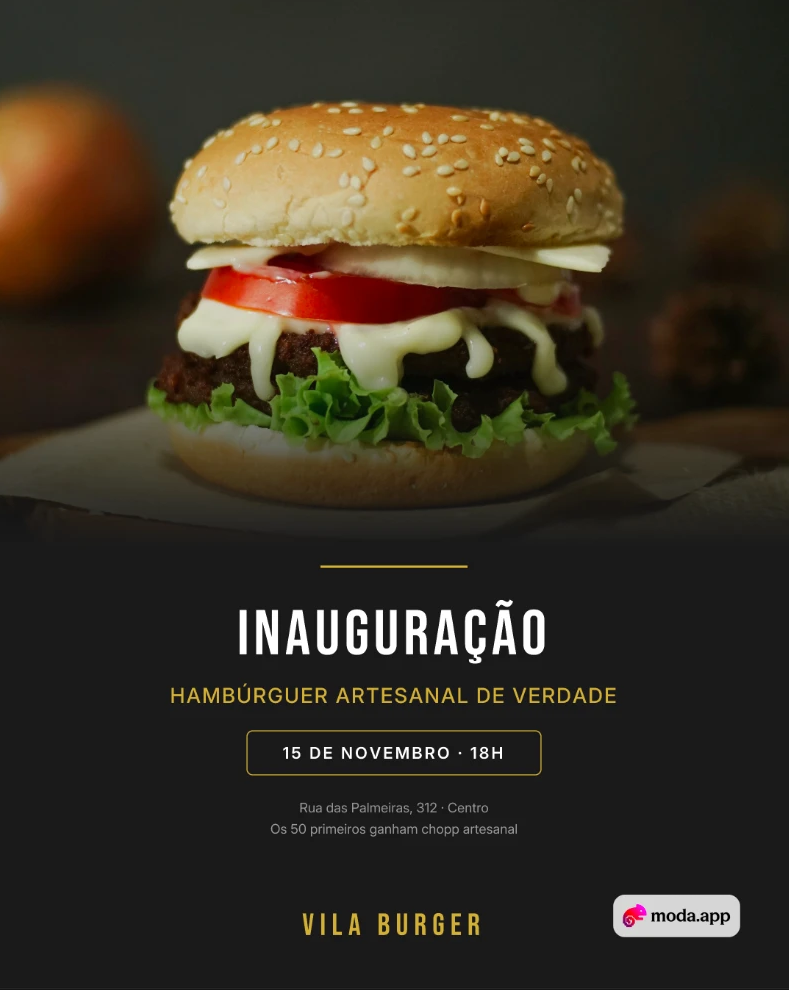
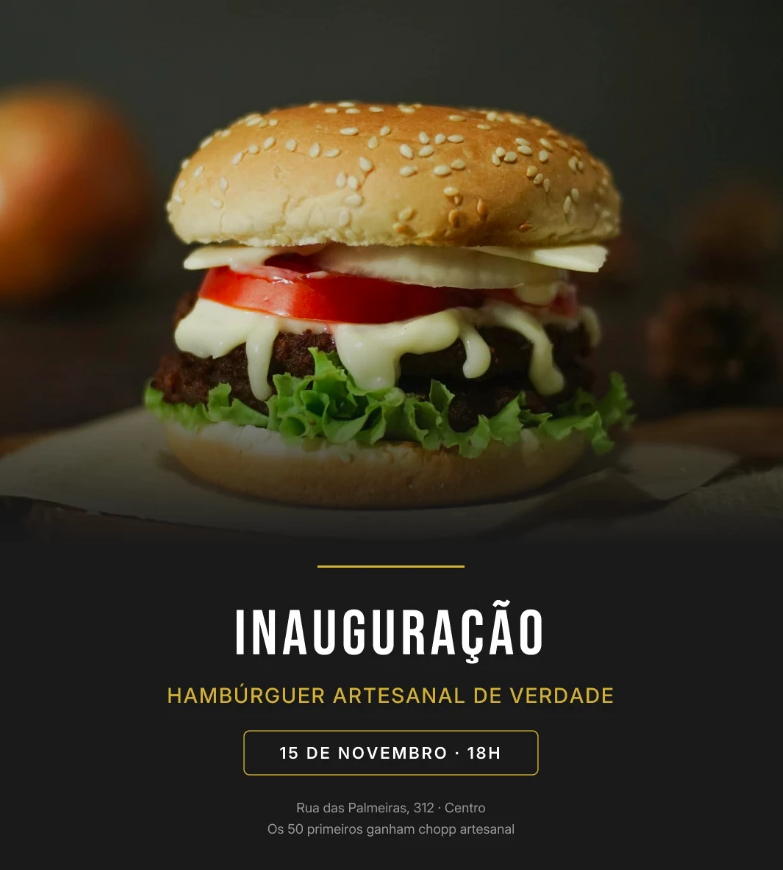
Referências: posts empilhados estilo Instagram, sem a marca da ferramenta
- Artes recortadas acima do selo "moda.app" (proporção 9:10)
- Os 3 posts aparecem sobrepostos como cards do Instagram, com
  lista numerada ligando cada um ao serviço; clique amplia
- Cache: style.css/script.js em ?v=5

diff --git a/portfolio.html b/portfolio.html
@@ -31,9 +31,9 @@
   <link rel="preload" href="assets/fonts/manrope.woff2" as="font" type="font/woff2" crossorigin>
   <link rel="preload" href="assets/fonts/inter.woff2" as="font" type="font/woff2" crossorigin>
   <!-- Ao mudar style.css ou script.js, aumente o número em ?v= em TODAS as páginas. -->
-  <link rel="stylesheet" href="style.css?v=4">
+  <link rel="stylesheet" href="style.css?v=5">
   <script>document.documentElement.classList.add('js');</script>
-  <script src="script.js?v=4" defer></script>
+  <script src="script.js?v=5" defer></script>
 </head><body data-page="portfolio">
   <!-- Os textos de serviços, preços, depoimentos, portfólio, sobre e contato são editados
        pelo painel (seu-site/admin). O conteúdo escrito aqui é só uma cópia de segurança:
@@ -55,6 +55,9 @@
     <symbol id="i-globe" viewBox="0 0 24 24"><g fill="none" stroke="currentColor" stroke-width="1.6"><circle cx="12" cy="12" r="9"/><path d="M3 12h18M12 3c2.5 2.6 3.8 5.6 3.8 9s-1.3 6.4-3.8 9c-2.5-2.6-3.8-5.6-3.8-9S9.5 5.6 12 3z"/></g></symbol>
     <symbol id="i-play" viewBox="0 0 24 24"><path fill="currentColor" d="M8 5.5v13l10.5-6.5z"/></symbol>
     <symbol id="i-zoom" viewBox="0 0 24 24"><g fill="none" stroke="currentColor" stroke-width="2" stroke-linecap="round"><circle cx="10.5" cy="10.5" r="6.5"/><path d="M15.5 15.5L20 20M10.5 8v5M8 10.5h5"/></g></symbol>
+    <symbol id="i-heart" viewBox="0 0 24 24"><path fill="none" stroke="currentColor" stroke-width="1.8" stroke-linejoin="round" d="M12 20s-7.5-4.6-7.5-10.2A4.3 4.3 0 0 1 12 7.2a4.3 4.3 0 0 1 7.5 2.6C19.5 15.4 12 20 12 20z"/></symbol>
+    <symbol id="i-comment" viewBox="0 0 24 24"><path fill="none" stroke="currentColor" stroke-width="1.8" stroke-linejoin="round" d="M20 11.5a8 8 0 0 1-11.7 7.1L4 20l1.3-4A8 8 0 1 1 20 11.5z"/></symbol>
+    <symbol id="i-send" viewBox="0 0 24 24"><path fill="none" stroke="currentColor" stroke-width="1.8" stroke-linejoin="round" d="M21 3L10 14M21 3l-6.5 18-3.5-7-7-3.5z"/></symbol>
     <symbol id="i-close" viewBox="0 0 24 24"><path fill="none" stroke="currentColor" stroke-width="2" stroke-linecap="round" d="M6 6l12 12M18 6L6 18"/></symbol>
   </svg>
 
@@ -118,37 +121,30 @@
             </figcaption>
           </figure>
         </div>
-        <div class="ref-grid">
-          <figure class="ref-piece" data-reveal style="--d:0ms">
-            <button class="ref-zoom" type="button" data-caption="Post de inauguração · Vila Burger (projeto conceitual)" aria-label="Ampliar imagem: Post de inauguração">
-              <picture><source type="image/webp" srcset="assets/referencias/vila-burger-inauguracao.webp"><img src="assets/referencias/vila-burger-inauguracao.png" alt="Post de inauguração da Vila Burger: foto de hambúrguer artesanal, título INAUGURAÇÃO, data 15 de novembro às 18h e endereço." width="789" height="990" loading="lazy" decoding="async"></picture>
-              <span class="ref-zoom-hint" aria-hidden="true"><svg width="18" height="18" aria-hidden="true"><use href="#i-zoom"/></svg></span>
+        <div class="post-stack-wrap">
+          <p class="stack-hint" data-reveal>Toque em um post para ver em tamanho maior.</p>
+          <div class="post-stack" data-reveal>
+            <button class="ref-zoom stack-card stack-card--left" type="button" data-caption="Post de inauguração · Vila Burger (projeto conceitual)" aria-label="Ampliar imagem: Post de inauguração">
+              <span class="ig-top" aria-hidden="true"><svg class="ig-avatar" viewBox="0 0 24 24" width="22" height="22"><circle cx="12" cy="12" r="12" fill="#F5F0EB"/><path d="M12 5.2l5.6 4.6H6.4z" fill="#D4A843" stroke="#D4A843" stroke-width="1.2" stroke-linejoin="round"/><rect x="6.2" y="11" width="11.6" height="1.5" fill="#C1272D"/><rect x="6.2" y="13.1" width="11.6" height="2.2" fill="#1A1A1A"/><rect x="6.2" y="15.9" width="11.6" height="2.4" rx=".9" fill="#D4A843"/></svg><span class="ig-handle">vilaburger</span><span class="ig-dots">···</span></span>
+              <picture><source type="image/webp" srcset="assets/referencias/vila-burger-inauguracao.webp"><img src="assets/referencias/vila-burger-inauguracao.png" alt="Post de inauguração da Vila Burger: foto de hambúrguer artesanal, título INAUGURAÇÃO, data 15 de novembro às 18h e endereço." width="783" height="870" loading="lazy" decoding="async"></picture>
+              <span class="ig-actions" aria-hidden="true"><svg width="18" height="18" aria-hidden="true"><use href="#i-heart"/></svg><svg width="18" height="18" aria-hidden="true"><use href="#i-comment"/></svg><svg width="18" height="18" aria-hidden="true"><use href="#i-send"/></svg><span class="stack-num">01</span></span>
             </button>
-            <figcaption>
-              <span class="ref-service">Post de inauguração</span>
-              <a class="link-arrow" href="servicos.html#posts">Posts para Instagram <svg width="16" height="16" aria-hidden="true"><use href="#i-arrow"/></svg></a>
-            </figcaption>
-          </figure>
-          <figure class="ref-piece" data-reveal style="--d:80ms">
-            <button class="ref-zoom" type="button" data-caption="Post promocional · Vila Burger (projeto conceitual)" aria-label="Ampliar imagem: Post promocional">
-              <picture><source type="image/webp" srcset="assets/referencias/vila-burger-combo.webp"><img src="assets/referencias/vila-burger-combo.png" alt="Post promocional da Vila Burger: combo do dia com hambúrguer e fritas, de R$ 45,90 por R$ 29,90." width="792" height="994" loading="lazy" decoding="async"></picture>
-              <span class="ref-zoom-hint" aria-hidden="true"><svg width="18" height="18" aria-hidden="true"><use href="#i-zoom"/></svg></span>
+            <button class="ref-zoom stack-card stack-card--center" type="button" data-caption="Post promocional · Vila Burger (projeto conceitual)" aria-label="Ampliar imagem: Post promocional">
+              <span class="ig-top" aria-hidden="true"><svg class="ig-avatar" viewBox="0 0 24 24" width="22" height="22"><circle cx="12" cy="12" r="12" fill="#F5F0EB"/><path d="M12 5.2l5.6 4.6H6.4z" fill="#D4A843" stroke="#D4A843" stroke-width="1.2" stroke-linejoin="round"/><rect x="6.2" y="11" width="11.6" height="1.5" fill="#C1272D"/><rect x="6.2" y="13.1" width="11.6" height="2.2" fill="#1A1A1A"/><rect x="6.2" y="15.9" width="11.6" height="2.4" rx=".9" fill="#D4A843"/></svg><span class="ig-handle">vilaburger</span><span class="ig-dots">···</span></span>
+              <picture><source type="image/webp" srcset="assets/referencias/vila-burger-combo.webp"><img src="assets/referencias/vila-burger-combo.png" alt="Post promocional da Vila Burger: combo do dia com hambúrguer e fritas, de R$ 45,90 por R$ 29,90." width="792" height="880" loading="lazy" decoding="async"></picture>
+              <span class="ig-actions" aria-hidden="true"><svg width="18" height="18" aria-hidden="true"><use href="#i-heart"/></svg><svg width="18" height="18" aria-hidden="true"><use href="#i-comment"/></svg><svg width="18" height="18" aria-hidden="true"><use href="#i-send"/></svg><span class="stack-num">02</span></span>
             </button>
-            <figcaption>
-              <span class="ref-service">Post promocional</span>
-              <a class="link-arrow" href="servicos.html#posts">Posts para Instagram <svg width="16" height="16" aria-hidden="true"><use href="#i-arrow"/></svg></a>
-            </figcaption>
-          </figure>
-          <figure class="ref-piece" data-reveal style="--d:160ms">
-            <button class="ref-zoom" type="button" data-caption="Cardápio digital · Vila Burger (projeto conceitual)" aria-label="Ampliar imagem: Cardápio digital">
-              <picture><source type="image/webp" srcset="assets/referencias/vila-burger-cardapio.webp"><img src="assets/referencias/vila-burger-cardapio.png" alt="Cardápio digital da Vila Burger com burgers, acompanhamentos e bebidas, preços e QR Code para pedir pelo WhatsApp." width="786" height="993" loading="lazy" decoding="async"></picture>
-              <span class="ref-zoom-hint" aria-hidden="true"><svg width="18" height="18" aria-hidden="true"><use href="#i-zoom"/></svg></span>
+            <button class="ref-zoom stack-card stack-card--right" type="button" data-caption="Cardápio digital · Vila Burger (projeto conceitual)" aria-label="Ampliar imagem: Cardápio digital">
+              <span class="ig-top" aria-hidden="true"><svg class="ig-avatar" viewBox="0 0 24 24" width="22" height="22"><circle cx="12" cy="12" r="12" fill="#F5F0EB"/><path d="M12 5.2l5.6 4.6H6.4z" fill="#D4A843" stroke="#D4A843" stroke-width="1.2" stroke-linejoin="round"/><rect x="6.2" y="11" width="11.6" height="1.5" fill="#C1272D"/><rect x="6.2" y="13.1" width="11.6" height="2.2" fill="#1A1A1A"/><rect x="6.2" y="15.9" width="11.6" height="2.4" rx=".9" fill="#D4A843"/></svg><span class="ig-handle">vilaburger</span><span class="ig-dots">···</span></span>
+              <picture><source type="image/webp" srcset="assets/referencias/vila-burger-cardapio.webp"><img src="assets/referencias/vila-burger-cardapio.png" alt="Cardápio digital da Vila Burger com burgers, acompanhamentos e bebidas, com preços." width="760" height="845" loading="lazy" decoding="async"></picture>
+              <span class="ig-actions" aria-hidden="true"><svg width="18" height="18" aria-hidden="true"><use href="#i-heart"/></svg><svg width="18" height="18" aria-hidden="true"><use href="#i-comment"/></svg><svg width="18" height="18" aria-hidden="true"><use href="#i-send"/></svg><span class="stack-num">03</span></span>
             </button>
-            <figcaption>
-              <span class="ref-service">Cardápio digital</span>
-              <a class="link-arrow" href="servicos.html#cardapio">Cardápio digital <svg width="16" height="16" aria-hidden="true"><use href="#i-arrow"/></svg></a>
-            </figcaption>
-          </figure>
+          </div>
+          <ol class="stack-captions" data-reveal>
+            <li><span class="stack-num">01</span><span class="ref-service">Post de inauguração</span><a class="link-arrow" href="servicos.html#posts">Posts para Instagram <svg width="16" height="16" aria-hidden="true"><use href="#i-arrow"/></svg></a></li>
+            <li><span class="stack-num">02</span><span class="ref-service">Post promocional</span><a class="link-arrow" href="servicos.html#posts">Posts para Instagram <svg width="16" height="16" aria-hidden="true"><use href="#i-arrow"/></svg></a></li>
+            <li><span class="stack-num">03</span><span class="ref-service">Cardápio digital</span><a class="link-arrow" href="servicos.html#cardapio">Cardápio digital <svg width="16" height="16" aria-hidden="true"><use href="#i-arrow"/></svg></a></li>
+          </ol>
         </div>
       </div>
     </section>

diff --git a/index.html b/index.html
@@ -31,9 +31,9 @@
   <link rel="preload" href="assets/fonts/manrope.woff2" as="font" type="font/woff2" crossorigin>
   <link rel="preload" href="assets/fonts/inter.woff2" as="font" type="font/woff2" crossorigin>
   <!-- Ao mudar style.css ou script.js, aumente o número em ?v= em TODAS as páginas. -->
-  <link rel="stylesheet" href="style.css?v=4">
+  <link rel="stylesheet" href="style.css?v=5">
   <script>document.documentElement.classList.add('js');</script>
-  <script src="script.js?v=4" defer></script>
+  <script src="script.js?v=5" defer></script>
   <script type="application/ld+json">
   {
     "@context": "https://schema.org",
@@ -70,6 +70,9 @@
     <symbol id="i-globe" viewBox="0 0 24 24"><g fill="none" stroke="currentColor" stroke-width="1.6"><circle cx="12" cy="12" r="9"/><path d="M3 12h18M12 3c2.5 2.6 3.8 5.6 3.8 9s-1.3 6.4-3.8 9c-2.5-2.6-3.8-5.6-3.8-9S9.5 5.6 12 3z"/></g></symbol>
     <symbol id="i-play" viewBox="0 0 24 24"><path fill="currentColor" d="M8 5.5v13l10.5-6.5z"/></symbol>
     <symbol id="i-zoom" viewBox="0 0 24 24"><g fill="none" stroke="currentColor" stroke-width="2" stroke-linecap="round"><circle cx="10.5" cy="10.5" r="6.5"/><path d="M15.5 15.5L20 20M10.5 8v5M8 10.5h5"/></g></symbol>
+    <symbol id="i-heart" viewBox="0 0 24 24"><path fill="none" stroke="currentColor" stroke-width="1.8" stroke-linejoin="round" d="M12 20s-7.5-4.6-7.5-10.2A4.3 4.3 0 0 1 12 7.2a4.3 4.3 0 0 1 7.5 2.6C19.5 15.4 12 20 12 20z"/></symbol>
+    <symbol id="i-comment" viewBox="0 0 24 24"><path fill="none" stroke="currentColor" stroke-width="1.8" stroke-linejoin="round" d="M20 11.5a8 8 0 0 1-11.7 7.1L4 20l1.3-4A8 8 0 1 1 20 11.5z"/></symbol>
+    <symbol id="i-send" viewBox="0 0 24 24"><path fill="none" stroke="currentColor" stroke-width="1.8" stroke-linejoin="round" d="M21 3L10 14M21 3l-6.5 18-3.5-7-7-3.5z"/></symbol>
     <symbol id="i-close" viewBox="0 0 24 24"><path fill="none" stroke="currentColor" stroke-width="2" stroke-linecap="round" d="M6 6l12 12M18 6L6 18"/></symbol>
   </svg>
 
@@ -177,8 +180,8 @@
         </div>
         <div class="ref-thumbs">
           <a class="ref-thumb" href="portfolio.html#vila-burger" data-reveal style="--d:0ms"><picture><source type="image/webp" srcset="assets/referencias/vila-burger-logo.webp"><img src="assets/referencias/vila-burger-logo.png" alt="Logo da Vila Burger: símbolo de casinha formada por pão, tomate e carne, com o nome VILA BURGER e a assinatura “desde a primeira mordida”." width="1080" height="1080" loading="lazy" decoding="async"></picture><span class="ref-thumb-label">Logo</span></a>
-          <a class="ref-thumb" href="portfolio.html#vila-burger" data-reveal style="--d:80ms"><picture><source type="image/webp" srcset="assets/referencias/vila-burger-inauguracao.webp"><img src="assets/referencias/vila-burger-inauguracao.png" alt="Post de inauguração da Vila Burger: foto de hambúrguer artesanal, título INAUGURAÇÃO, data 15 de novembro às 18h e endereço." width="789" height="990" loading="lazy" decoding="async"></picture><span class="ref-thumb-label">Post</span></a>
-          <a class="ref-thumb" href="portfolio.html#vila-burger" data-reveal style="--d:160ms"><picture><source type="image/webp" srcset="assets/referencias/vila-burger-cardapio.webp"><img src="assets/referencias/vila-burger-cardapio.png" alt="Cardápio digital da Vila Burger com burgers, acompanhamentos e bebidas, preços e QR Code para pedir pelo WhatsApp." width="786" height="993" loading="lazy" decoding="async"></picture><span class="ref-thumb-label">Cardápio</span></a>
+          <a class="ref-thumb" href="portfolio.html#vila-burger" data-reveal style="--d:80ms"><picture><source type="image/webp" srcset="assets/referencias/vila-burger-inauguracao.webp"><img src="assets/referencias/vila-burger-inauguracao.png" alt="Post de inauguração da Vila Burger: foto de hambúrguer artesanal, título INAUGURAÇÃO, data 15 de novembro às 18h e endereço." width="783" height="870" loading="lazy" decoding="async"></picture><span class="ref-thumb-label">Post</span></a>
+          <a class="ref-thumb" href="portfolio.html#vila-burger" data-reveal style="--d:160ms"><picture><source type="image/webp" srcset="assets/referencias/vila-burger-cardapio.webp"><img src="assets/referencias/vila-burger-cardapio.png" alt="Cardápio digital da Vila Burger com burgers, acompanhamentos e bebidas, com preços." width="760" height="845" loading="lazy" decoding="async"></picture><span class="ref-thumb-label">Cardápio</span></a>
         </div>
         <div class="ref-thumbs-cta" data-reveal>
           <a class="btn btn-dark" href="portfolio.html">Ver referências <svg class="i-arrow" width="18" height="18" aria-hidden="true"><use href="#i-arrow"/></svg></a>

diff --git a/style.css b/style.css
@@ -935,7 +935,80 @@ body.menu-open .site-header {
 }
 .ref-service { font-family: var(--font-head); font-weight: 700; font-size: 1.0625rem; letter-spacing: -0.01em; }
 .ref-piece .link-arrow { font-size: .9375rem; }
-.ref-grid { display: grid; gap: 28px; margin-top: 28px; }
+
+/* Pilha de posts (Instagram) */
+.post-stack-wrap { margin-top: 48px; }
+.stack-hint { text-align: center; font-size: .875rem; color: var(--muted); margin-bottom: 18px; }
+.post-stack {
+  position: relative;
+  max-width: 780px;
+  margin: 0 auto;
+  aspect-ratio: 4 / 3.15;
+}
+.stack-card {
+  --r: 0deg;
+  position: absolute;
+  width: 46%;
+  display: block;
+  padding: 0;
+  border: 1px solid var(--line);
+  border-radius: 14px;
+  overflow: hidden;
+  background: var(--card);
+  color: var(--ink);
+  text-align: left;
+  cursor: zoom-in;
+  box-shadow: 0 2px 6px rgba(10, 22, 40, .08), 0 24px 50px -24px rgba(10, 22, 40, .45);
+  transform: rotate(var(--r));
+  transition: transform .4s var(--ease), box-shadow .4s var(--ease);
+}
+.stack-card--left { --r: -7deg; left: 0; top: 9%; z-index: 1; }
+.stack-card--center { --r: 0deg; left: 27%; top: 0; z-index: 3; }
+.stack-card--right { --r: 7deg; left: 54%; top: 11%; z-index: 2; }
+.stack-card:hover,
+.stack-card:focus-visible {
+  z-index: 5;
+  transform: translateY(-10px) rotate(0deg) scale(1.03);
+  box-shadow: 0 4px 10px rgba(10, 22, 40, .1), 0 34px 60px -24px rgba(10, 22, 40, .55);
+}
+.stack-card:focus-visible { outline: 3px solid var(--blue); outline-offset: 3px; }
+.stack-card img { width: 100%; height: auto; aspect-ratio: 9 / 10; object-fit: cover; transform: none !important; }
+.ig-top, .ig-actions {
+  display: flex;
+  align-items: center;
+  gap: 6px;
+  padding: 6px 8px;
+  font: 600 .625rem/1 var(--font-body);
+}
+.ig-avatar { width: 16px; height: 16px; flex-shrink: 0; border-radius: 50%; box-shadow: 0 0 0 1px var(--line); }
+.ig-handle { flex: 1; }
+.ig-dots { color: var(--muted); letter-spacing: 1px; }
+.ig-actions svg { width: 14px; height: 14px; }
+.ig-actions .stack-num { margin-left: auto; }
+.stack-num {
+  display: inline-grid;
+  place-items: center;
+  min-width: 22px;
+  height: 18px;
+  padding: 0 5px;
+  border-radius: 999px;
+  background: var(--navy);
+  color: var(--white);
+  font: 700 .625rem/1 var(--font-body);
+}
+.stack-captions { display: grid; gap: 10px; max-width: 780px; margin: 28px auto 0; }
+.stack-captions li {
+  display: flex;
+  flex-wrap: wrap;
+  align-items: center;
+  gap: 4px 10px;
+  padding: 12px 14px;
+  border: 1px solid var(--line);
+  border-radius: var(--radius-sm);
+  background: var(--card);
+}
+.stack-captions .ref-service { font-size: 1rem; }
+.stack-captions .link-arrow { margin-left: auto; font-size: .875rem; }
 
 /* Miniaturas na página inicial */
 .ref-thumbs { display: grid; grid-template-columns: repeat(3, 1fr); gap: 10px; }
@@ -1161,8 +1234,17 @@ body.menu-open .wa-float { opacity: 0; pointer-events: none; }
   .svc-grid { grid-template-columns: repeat(2, 1fr); }
   .quotes { grid-template-columns: repeat(2, 1fr); }
   .work-grid { grid-template-columns: repeat(3, 1fr); gap: 18px; }
-  .ref-grid { grid-template-columns: repeat(3, 1fr); gap: 22px; }
   .ref-thumbs { gap: 18px; }
+  .stack-card { width: 42%; border-radius: 18px; }
+  .stack-card--center { left: 29%; }
+  .stack-card--right { left: 58%; }
+  .ig-top, .ig-actions { padding: 10px 12px; gap: 8px; font-size: .8125rem; }
+  .ig-avatar { width: 24px; height: 24px; }
+  .ig-actions svg { width: 20px; height: 20px; }
+  .stack-num { min-width: 26px; height: 22px; font-size: .75rem; }
+  .stack-captions { grid-template-columns: repeat(3, 1fr); gap: 14px; }
+  .stack-captions li { flex-direction: column; align-items: flex-start; }
+  .stack-captions .link-arrow { margin-left: 0; }
   .ref-thumb-label { left: 10px; bottom: 10px; font-size: .8125rem; padding: 5px 10px; }
   .extras { grid-template-columns: repeat(2, 1fr); }
   .values { grid-template-columns: repeat(3, 1fr); }

diff --git a/servicos.html b/servicos.html
@@ -31,9 +31,9 @@
   <link rel="preload" href="assets/fonts/manrope.woff2" as="font" type="font/woff2" crossorigin>
   <link rel="preload" href="assets/fonts/inter.woff2" as="font" type="font/woff2" crossorigin>
   <!-- Ao mudar style.css ou script.js, aumente o número em ?v= em TODAS as páginas. -->
-  <link rel="stylesheet" href="style.css?v=4">
+  <link rel="stylesheet" href="style.css?v=5">
   <script>document.documentElement.classList.add('js');</script>
-  <script src="script.js?v=4" defer></script>
+  <script src="script.js?v=5" defer></script>
 </head><body data-page="servicos">
   <!-- Os textos de serviços, preços, depoimentos, portfólio, sobre e contato são editados
        pelo painel (seu-site/admin). O conteúdo escrito aqui é só uma cópia de segurança:
@@ -55,6 +55,9 @@
     <symbol id="i-globe" viewBox="0 0 24 24"><g fill="none" stroke="currentColor" stroke-width="1.6"><circle cx="12" cy="12" r="9"/><path d="M3 12h18M12 3c2.5 2.6 3.8 5.6 3.8 9s-1.3 6.4-3.8 9c-2.5-2.6-3.8-5.6-3.8-9S9.5 5.6 12 3z"/></g></symbol>
     <symbol id="i-play" viewBox="0 0 24 24"><path fill="currentColor" d="M8 5.5v13l10.5-6.5z"/></symbol>
     <symbol id="i-zoom" viewBox="0 0 24 24"><g fill="none" stroke="currentColor" stroke-width="2" stroke-linecap="round"><circle cx="10.5" cy="10.5" r="6.5"/><path d="M15.5 15.5L20 20M10.5 8v5M8 10.5h5"/></g></symbol>
+    <symbol id="i-heart" viewBox="0 0 24 24"><path fill="none" stroke="currentColor" stroke-width="1.8" stroke-linejoin="round" d="M12 20s-7.5-4.6-7.5-10.2A4.3 4.3 0 0 1 12 7.2a4.3 4.3 0 0 1 7.5 2.6C19.5 15.4 12 20 12 20z"/></symbol>
+    <symbol id="i-comment" viewBox="0 0 24 24"><path fill="none" stroke="currentColor" stroke-width="1.8" stroke-linejoin="round" d="M20 11.5a8 8 0 0 1-11.7 7.1L4 20l1.3-4A8 8 0 1 1 20 11.5z"/></symbol>
+    <symbol id="i-send" viewBox="0 0 24 24"><path fill="none" stroke="currentColor" stroke-width="1.8" stroke-linejoin="round" d="M21 3L10 14M21 3l-6.5 18-3.5-7-7-3.5z"/></symbol>
     <symbol id="i-close" viewBox="0 0 24 24"><path fill="none" stroke="currentColor" stroke-width="2" stroke-linecap="round" d="M6 6l12 12M18 6L6 18"/></symbol>
   </svg>
 

diff --git a/precos.html b/precos.html
@@ -31,9 +31,9 @@
   <link rel="preload" href="assets/fonts/manrope.woff2" as="font" type="font/woff2" crossorigin>
   <link rel="preload" href="assets/fonts/inter.woff2" as="font" type="font/woff2" crossorigin>
   <!-- Ao mudar style.css ou script.js, aumente o número em ?v= em TODAS as páginas. -->
-  <link rel="stylesheet" href="style.css?v=4">
+  <link rel="stylesheet" href="style.css?v=5">
   <script>document.documentElement.classList.add('js');</script>
-  <script src="script.js?v=4" defer></script>
+  <script src="script.js?v=5" defer></script>
 </head><body data-page="precos">
   <!-- Os textos de serviços, preços, depoimentos, portfólio, sobre e contato são editados
        pelo painel (seu-site/admin). O conteúdo escrito aqui é só uma cópia de segurança:
@@ -55,6 +55,9 @@
     <symbol id="i-globe" viewBox="0 0 24 24"><g fill="none" stroke="currentColor" stroke-width="1.6"><circle cx="12" cy="12" r="9"/><path d="M3 12h18M12 3c2.5 2.6 3.8 5.6 3.8 9s-1.3 6.4-3.8 9c-2.5-2.6-3.8-5.6-3.8-9S9.5 5.6 12 3z"/></g></symbol>
     <symbol id="i-play" viewBox="0 0 24 24"><path fill="currentColor" d="M8 5.5v13l10.5-6.5z"/></symbol>
     <symbol id="i-zoom" viewBox="0 0 24 24"><g fill="none" stroke="currentColor" stroke-width="2" stroke-linecap="round"><circle cx="10.5" cy="10.5" r="6.5"/><path d="M15.5 15.5L20 20M10.5 8v5M8 10.5h5"/></g></symbol>
+    <symbol id="i-heart" viewBox="0 0 24 24"><path fill="none" stroke="currentColor" stroke-width="1.8" stroke-linejoin="round" d="M12 20s-7.5-4.6-7.5-10.2A4.3 4.3 0 0 1 12 7.2a4.3 4.3 0 0 1 7.5 2.6C19.5 15.4 12 20 12 20z"/></symbol>
+    <symbol id="i-comment" viewBox="0 0 24 24"><path fill="none" stroke="currentColor" stroke-width="1.8" stroke-linejoin="round" d="M20 11.5a8 8 0 0 1-11.7 7.1L4 20l1.3-4A8 8 0 1 1 20 11.5z"/></symbol>
+    <symbol id="i-send" viewBox="0 0 24 24"><path fill="none" stroke="currentColor" stroke-width="1.8" stroke-linejoin="round" d="M21 3L10 14M21 3l-6.5 18-3.5-7-7-3.5z"/></symbol>
     <symbol id="i-close" viewBox="0 0 24 24"><path fill="none" stroke="currentColor" stroke-width="2" stroke-linecap="round" d="M6 6l12 12M18 6L6 18"/></symbol>
   </svg>
 

diff --git a/sobre.html b/sobre.html
@@ -31,9 +31,9 @@
   <link rel="preload" href="assets/fonts/manrope.woff2" as="font" type="font/woff2" crossorigin>
   <link rel="preload" href="assets/fonts/inter.woff2" as="font" type="font/woff2" crossorigin>
   <!-- Ao mudar style.css ou script.js, aumente o número em ?v= em TODAS as páginas. -->
-  <link rel="stylesheet" href="style.css?v=4">
+  <link rel="stylesheet" href="style.css?v=5">
   <script>document.documentElement.classList.add('js');</script>
-  <script src="script.js?v=4" defer></script>
+  <script src="script.js?v=5" defer></script>
 </head><body data-page="sobre">
   <!-- Os textos de serviços, preços, depoimentos, portfólio, sobre e contato são editados
        pelo painel (seu-site/admin). O conteúdo escrito aqui é só uma cópia de segurança:
@@ -55,6 +55,9 @@
     <symbol id="i-globe" viewBox="0 0 24 24"><g fill="none" stroke="currentColor" stroke-width="1.6"><circle cx="12" cy="12" r="9"/><path d="M3 12h18M12 3c2.5 2.6 3.8 5.6 3.8 9s-1.3 6.4-3.8 9c-2.5-2.6-3.8-5.6-3.8-9S9.5 5.6 12 3z"/></g></symbol>
     <symbol id="i-play" viewBox="0 0 24 24"><path fill="currentColor" d="M8 5.5v13l10.5-6.5z"/></symbol>
     <symbol id="i-zoom" viewBox="0 0 24 24"><g fill="none" stroke="currentColor" stroke-width="2" stroke-linecap="round"><circle cx="10.5" cy="10.5" r="6.5"/><path d="M15.5 15.5L20 20M10.5 8v5M8 10.5h5"/></g></symbol>
+    <symbol id="i-heart" viewBox="0 0 24 24"><path fill="none" stroke="currentColor" stroke-width="1.8" stroke-linejoin="round" d="M12 20s-7.5-4.6-7.5-10.2A4.3 4.3 0 0 1 12 7.2a4.3 4.3 0 0 1 7.5 2.6C19.5 15.4 12 20 12 20z"/></symbol>
+    <symbol id="i-comment" viewBox="0 0 24 24"><path fill="none" stroke="currentColor" stroke-width="1.8" stroke-linejoin="round" d="M20 11.5a8 8 0 0 1-11.7 7.1L4 20l1.3-4A8 8 0 1 1 20 11.5z"/></symbol>
+    <symbol id="i-send" viewBox="0 0 24 24"><path fill="none" stroke="currentColor" stroke-width="1.8" stroke-linejoin="round" d="M21 3L10 14M21 3l-6.5 18-3.5-7-7-3.5z"/></symbol>
     <symbol id="i-close" viewBox="0 0 24 24"><path fill="none" stroke="currentColor" stroke-width="2" stroke-linecap="round" d="M6 6l12 12M18 6L6 18"/></symbol>
   </svg>
 
